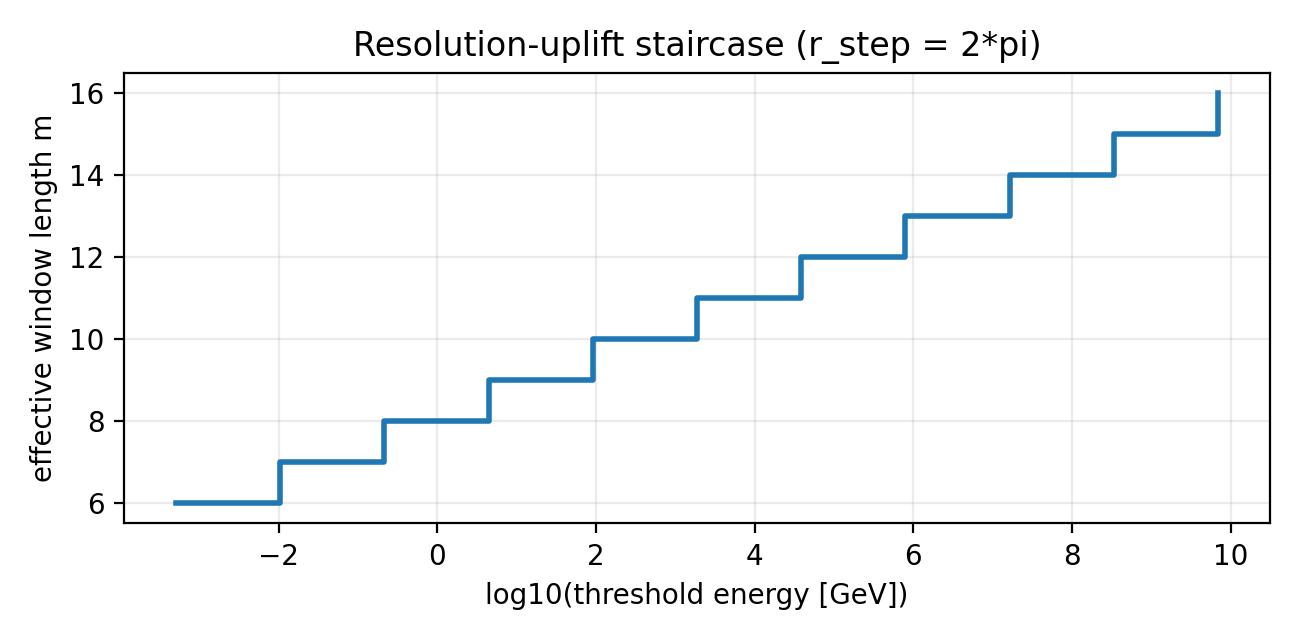
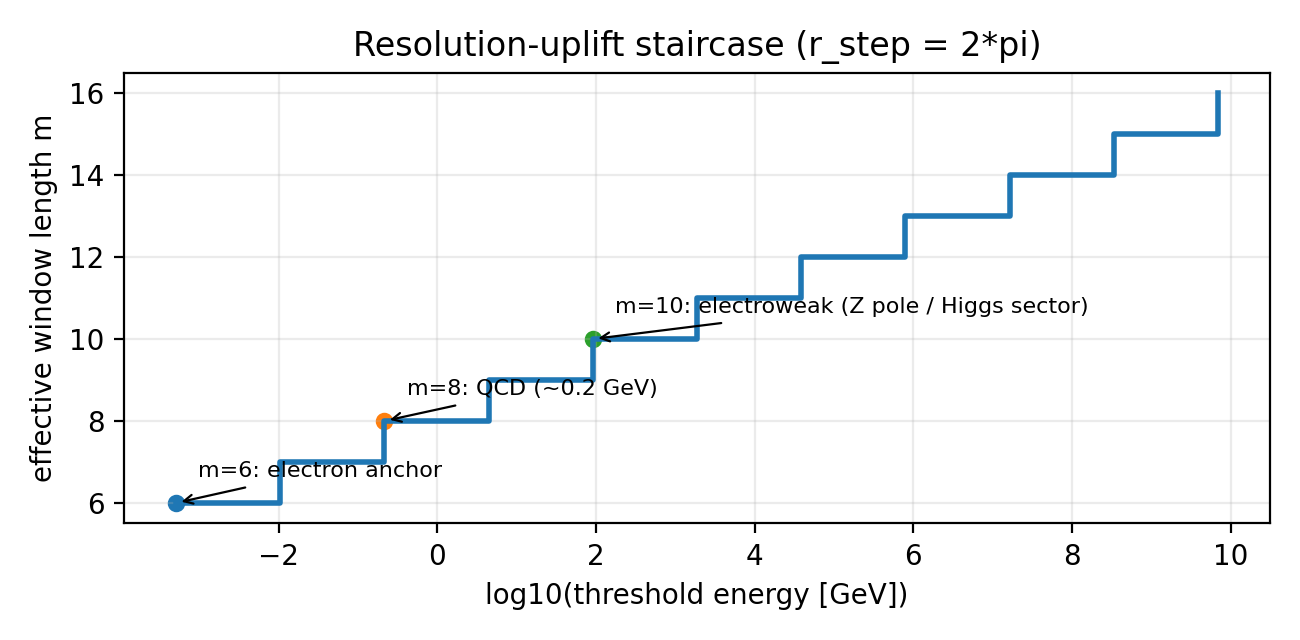
Revise title and enhance documentation for clarity in the HPA framework
- Updated the title of the main document to emphasize the derivation of 4D spacetime and the Standard Model from a 1D Hilbert Curve.
- Expanded sections to clarify the relationship between the 6-DoF geometry and the physical identification layer.
- Added new figures and annotations in the LaTeX documentation to illustrate key concepts, including the 6-DoF lock and its implications for the minimal balanced coupling.
- Enhanced discussions on scalar sectors, emphasizing the emergent nature of scalar modes and their relation to the Higgs sector.
- Improved overall coherence and readability of the document, ensuring that theoretical frameworks are clearly presented and accessible.

Changed region(s): [[0.4308, 0.4688, 0.8308, 0.5312], [0.2769, 0.5938, 0.5231, 0.6875], [0.1231, 0.7188, 0.3385, 0.8125]]

diff --git a/docs/papers/2025_z128_standard_model_stable_sector_hpa_omega/sections/05_standard_model_interface.tex b/docs/papers/2025_z128_standard_model_stable_sector_hpa_omega/sections/05_standard_model_interface.tex
@@ -129,13 +129,20 @@ Construct a map from the stable type set $X_6$ (together with its $\pi$-split an
 \end{itemize}
 \end{problem}
 
-\subsection{Scalar sectors and symmetry breaking (interface)}
+\subsection{Prediction: scalar exclusion and the emergent Higgs (interface)}
 \label{subsec:scalar_sectors_interface}
 
-The minimal $21$-type interface at $(m,n)=(6,3)$ is optimized for a chiral/gauge closure: $18$ cyclic labels for chiral fermion multiplets and $3$ boundary labels for gauge-factor classes (Section~\ref{sec:sm_labeling_closure}).
-However, a renormalizable Standard Model EFT also includes a scalar Higgs doublet whose vacuum structure controls electroweak symmetry breaking.
-In this paper, the Higgs is therefore treated as an additional EFT field (Section~\ref{subsec:protocol_eft}) and is not asserted to correspond to a distinct stable type at the minimal window length (Remark~\ref{rem:higgs_not_in_21}).
-This raises a natural interface problem: how should scalar degrees of freedom and symmetry breaking be represented in protocol language?
+At the minimal balanced coupling instance $(m,n)=(6,3)$, the $21$-type interface is optimized for a chiral/gauge closure:
+$18$ cyclic labels for chiral fermion multiplets and $3$ boundary labels for gauge-factor classes (Section~\ref{sec:sm_labeling_closure}).
+In this setting we record an interface prediction:
+parity-even scalar degrees of freedom are \emph{excluded} as distinct minimal stable types, and scalar effective modes should arise only as coarse-grained and uplift-dependent observables.
+The motivation is that the minimal stable-sector closure is tied to directional protocol data (scan order and the chirality sign datum) and to compensation transport, whereas a scalar mode is, by definition, an observable whose effective appearance is insensitive to these orientation-sign choices.
+
+In particular, a renormalizable Standard Model EFT includes a scalar Higgs doublet whose vacuum structure controls electroweak symmetry breaking.
+In the present protocol language, the Higgs is therefore treated as an EFT-level completion (Section~\ref{subsec:protocol_eft}) rather than as an additional minimal stable type at $m=6$ (Remark~\ref{rem:higgs_not_in_21}).
+The resolution-uplift narrative provides a concrete locus for scalar emergence:
+in the admissible-set sweep one has $|X_{10}|=144=123\oplus 21$ (Table~\ref{tab:xm_sweep}), and under the minimal staircase calibration the threshold for $m=10$ lies near the electroweak scale (Section~\ref{subsec:p3_resolution_jumps}, Table~\ref{tab:resolution_thresholds}).
+This suggests that electroweak-scalar behavior is naturally modeled as an emergent, parity-even background supported by higher-resolution texture, not as a primitive type at the minimal window.
 
 \begin{problem}[Scalar sectors and electroweak symmetry breaking (interface)]
 \label{prob:scalar_sector}
@@ -156,7 +163,7 @@ Block averaging as a coarse-graining operation is standard in lattice models; se
 \begin{remark}[A minimal protocol route to scalar effective modes]\label{rem:scalar_emergent_route}
 By construction, coarse-grained observables of Definition~\ref{def:coarse_grained_scalar} are parity-even in the protocol sense: under $P_{\mathrm{prot}}$ they transform by pullback of the spatial reflection on the grid rather than by an intrinsic sign flip.
 They are likewise insensitive to the traversal-direction sign datum used to define the discrete chirality index $\chi$.
-This provides a concrete protocol interpretation for why scalar sectors may be more naturally modeled as composite or protocol-emergent modes whose effective appearance depends on coarse graining and resolution uplift, consistent with the Higgs-sector status recorded in Remark~\ref{rem:higgs_not_in_21}.
+This provides a concrete protocol interpretation for a scalar exclusion at the minimal stable alphabet: parity-even scalar modes are naturally modeled as composite or protocol-emergent observables whose appearance depends on coarse graining and resolution uplift, consistent with the Higgs-sector status recorded in Remark~\ref{rem:higgs_not_in_21}.
 \end{remark}
 
 \paragraph{A minimal finite check.}

diff --git a/docs/papers/2025_z128_standard_model_stable_sector_hpa_omega/sections/09_conclusion.tex b/docs/papers/2025_z128_standard_model_stable_sector_hpa_omega/sections/09_conclusion.tex
@@ -4,6 +4,7 @@
 
 We proposed a readout-stability reformulation of Standard Model structure within the HPA scan--projection paradigm.
 At the minimal balanced coupling scale $(m,n)=(6,3)$, the provable folding core compresses $64$ microstates to $21$ stable types with a canonical $18\oplus 3$ cyclic/boundary split.
+On the physical identification layer, the 6-DoF lock in a $3$D locality dictionary motivates the six-bit anchor window and therefore the minimal balanced pair (Section~\ref{subsec:6dof_lock}).
 On the physical identification layer, we recorded interface hypotheses: gauge fields as defect-compensating connections; chirality as protocol selection among Hilbert $D_4$ layout families; antimatter as conjugate readout under scan reversal.
 We provided auditable scripts and generated tables that reproduce the finite folding statistics and the discrete chirality-index sign laws, and we stated falsifiable predictions formulated directly in the protocol language.
 In addition, we closed two interface components at $(m,n)=(6,3)$: a unique field-level labeling of the $21$ stable types, and a closed mass-spectrum depth formula with a bounded-complexity rigidity signal.
@@ -12,12 +13,14 @@ In addition, we closed two interface components at $(m,n)=(6,3)$: a unique field
 \begin{itemize}
 \item \textbf{Mathematical layer.}
 At minimal balanced resolution, three commuting stability channels yield a rigid $64\to 21$ folding and a canonical $18\oplus 3$ cyclic/boundary split, with explicit Fold$_6$ tables and a rigid degeneracy histogram.
+\item \textbf{6-DoF lock (interface anchor).}
+In a $3$D locality dictionary, a local rigid frame carries six degrees of freedom; a minimal bit-per-DoF hypothesis motivates the six-bit anchor window and therefore the minimal balanced pair $(m,n)=(6,3)$ (Section~\ref{subsec:6dof_lock}).
 \item \textbf{Protocol geometry.}
 Hilbert addressing admits two orientation classes; fixing one at initialization turns parity into protocol change.
 The discrete chirality index $\chi$ flips under both reflection and traversal reversal, coupling spatial handedness and time direction at finite resolution.
-\item \textbf{Scalar sectors (status).}
-At $(m,n)=(6,3)$ the Higgs sector is treated as an EFT-level completion rather than as a distinct minimal stable type (Remark~\ref{rem:higgs_not_in_21}).
-We recorded an explicit scalar-sector interface problem (Problem~\ref{prob:scalar_sector}) and a minimal finite parity contrast between $\chi$ and block-averaged intrinsic observables (Table~\ref{tab:scalar_coarse_grain}).
+\item \textbf{Scalar sectors (prediction).}
+At the minimal stable alphabet, parity-even scalar modes are predicted to be protocol-emergent rather than distinct stable types: they arise from coarse graining and resolution uplift, consistent with treating the Higgs sector as an EFT-level completion at $m=6$ (Section~\ref{subsec:scalar_sectors_interface}, Remark~\ref{rem:higgs_not_in_21}).
+We recorded a constructive scalar-sector interface problem (Problem~\ref{prob:scalar_sector}) and a minimal finite parity contrast between $\chi$ and block-averaged intrinsic observables (Table~\ref{tab:scalar_coarse_grain}), and we tied uplift thresholds to the electroweak scale in the staircase template (Section~\ref{subsec:p3_resolution_jumps}).
 \item \textbf{Physical interface.}
 Gauge fields are interpreted as compensation connections required for cross-site readout consistency; antimatter arises as the conjugate readout induced by scan reversal; CP violation is compatible with a residual holonomy/volume mechanism tied to a CP-odd phase space.
 \item \textbf{Closed deliverables.}

diff --git a/docs/papers/2025_z128_standard_model_stable_sector_hpa_omega/sections/01_introduction.tex b/docs/papers/2025_z128_standard_model_stable_sector_hpa_omega/sections/01_introduction.tex
@@ -44,6 +44,50 @@ From this viewpoint, discreteness is not a postulate but a consequence of finite
 The stable-sector viewpoint used in this paper has a natural control-theoretic dual: in open systems, long-lived low-entropy structure can be modeled as \emph{predictive active error correction} (AEC) that suppresses protocol-level mismatch relative to a passive baseline while paying dissipation and implementation costs \cite{Ma2025BioTeleology}.
 Appendix~\ref{app:isomorphism_dictionary} records a protocol-level dictionary that aligns stable-sector objects (alphabets, stability channels, degeneracies) with AEC objects (mismatch certificates, feedback, and audit constraints) without mixing mathematical-layer premises with physical identification claims.
 
+\subsection{Interface principle: the 6-DoF lock in a 3D locality dictionary}
+\label{subsec:6dof_lock}
+While Axiom~0 fixes only sequentiality, any physical identification must choose a locality dictionary.
+Empirically, the observed locality structure is three-dimensional to high precision on laboratory and astrophysical scales.
+In a $3$D locality dictionary, a local rigid frame is naturally modeled by the Euclidean group
+\[
+SE(3)\cong \RR^3\rtimes SO(3),
+\]
+specified by a position $x\in\RR^3$ and an orientation $R\in SO(3)$.
+Hence the minimal kinematic description carries six independent parameters: three translational plus three rotational degrees of freedom.
+
+We adopt a minimal interface hypothesis: a fundamental readout window supplies one bit per kinematic degree of freedom of a local frame.
+This motivates a six-bit anchor window $\Omega_6=\{0,1\}^6$.
+This statement belongs to the physical identification layer: it motivates a preferred anchor scale but is not used as a premise for any theorem-level folding statement.
+
+Once a locality-preserving addressing basis is fixed (e.g.\ Hilbert addressing), the balanced coupling rule $m=2n$ matches the $m$-bit readout alphabet size $2^m$ with the number of sites $4^n$ at Hilbert order $n$ (Lemma~\ref{lem:balanced_coupling_equiv}).
+The 6-DoF lock selects $m=6$, hence $n=3$ and $2^6=4^3=64$, giving the smallest nontrivial anchor at which local readout cardinality and spatial addressing cardinality coincide.
+
+\begin{figure}[t]
+\centering
+\begin{tikzpicture}[>=Latex, font=\footnotesize]
+  % Left: 3D frame (schematic)
+  \coordinate (O) at (0,0);
+  \draw[->, thick] (O) -- (1.3,0) node[below] {$x$};
+  \draw[->, thick] (O) -- (0,1.2) node[left] {$y$};
+  \draw[->, thick] (O) -- (-0.85,-0.85) node[below] {$z$};
+  \draw[thick] (O) circle (0.45);
+  \draw[->, thick] (0.45,0) arc (0:-300:0.45);
+  \node[align=center] at (0,-1.05) {3 translations\\ + 3 rotations};
+
+  % Arrow: bit-per-DoF lock
+  \draw[->, thick] (1.55,0) -- (2.85,0) node[midway, above] {1 bit / DoF};
+
+  % Right: 6-bit slots
+  \foreach \i/\lab in {0/1,1/2,2/3,3/4,4/5,5/6} {
+    \draw[thick] (3+0.55*\i,-0.30) rectangle (3+0.55*\i+0.45,0.30);
+    \node at (3+0.55*\i+0.225,0) {$b_{\lab}$};
+  }
+  \node[align=center] at (4.35,-1.05) {$m=6$ bits\\$\Omega_6=\{0,1\}^6$};
+\end{tikzpicture}
+\caption{The 6-DoF lock (interface language): in a $3$D locality dictionary, a local rigid frame has six degrees of freedom (three positional plus three orientational). A minimal bit-per-DoF hypothesis motivates a six-bit anchor window.}
+\label{fig:6dof_lock}
+\end{figure}
+
 \subsection{Methodological note: auditable layering}
 \label{subsec:audit_layering}
 

diff --git a/docs/papers/2025_z128_standard_model_stable_sector_hpa_omega/sections/00_frontmatter.tex b/docs/papers/2025_z128_standard_model_stable_sector_hpa_omega/sections/00_frontmatter.tex
@@ -5,7 +5,8 @@ Time is not imposed as an external parameter; it is realized operationally as th
 In this paper, the conversion from this dimensionless scan rate to a physical velocity scale (e.g.\ the measured constant $c$) is treated only as a matching-layer and units dictionary, not as a theorem-level output of the folding core.
 
 Within this framework we reformulate the Standard Model (SM) as a problem of \emph{stable readout sectors} under finite resolution.
-At the minimal balanced coupling scale $(m,n)=(6,3)$, the local readout space is the $6$-bit microstate set $\Omega_6:=\{0,1\}^6$ with $|\Omega_6|=64$.
+On the physical identification layer, we motivate a minimal window length by a $6$-DoF phase-space lock in a $3$D locality dictionary (three positional plus three orientational degrees of freedom), leading to a $6$-bit fundamental readout window.
+At the minimal balanced coupling instance $(m,n)=(6,3)$, the local readout space is the $6$-bit microstate set $\Omega_6:=\{0,1\}^6$ with $|\Omega_6|=64$.
 Introducing three commuting stability channels, denoted $\varphi$--$\pi$--$\e$, and defining stability by their joint readout constraints, we obtain a rigid \emph{resolution folding} $64\to 21$: the $\varphi$-stable type set $X_6$ has cardinality $|X_6|=21$ and admits a canonical $18\oplus 3$ split into cyclic and boundary types induced by the $\pi$-channel.
 
 We then propose a \emph{scan--chirality locking} principle: the orientation class of Hilbert addressing (a choice among the dihedral layout families $D_4$) fixed at $t=0$ turns parity into a protocol change at the readout level.
@@ -36,6 +37,7 @@ The standard Abel path refers to the limit process $r\uparrow 1$ with $r\in(0,1)
 \paragraph{Dimensional language.}
 Throughout the paper we use conventional terms such as ``space'', ``spacetime'', ``grid'', and ``dimension'' only as shorthand for protocol-level addressing and locality structure induced by the chosen readout basis (e.g.\ Hilbert addressing at fixed order).
 No ontic assumption of a pre-existing continuum manifold or a privileged physical dimension is used as a premise for the theorem-level folding statements.
+References to ``4D spacetime'' and to the $6$-DoF phase-space lock are likewise interface language: time refers to scan iteration count, while the spatial dictionary refers to the chosen locality basis; these identification statements are not used as premises for the folding core.
 
 \paragraph{Layered audit rule.}
 We separate a \emph{mathematical layer} (definitions and provable finite-resolution statements) from a \emph{physical identification layer} (interfaces and falsifiable mapping hypotheses).

diff --git a/docs/papers/2025_z128_standard_model_stable_sector_hpa_omega/sections/07b_mass_spectrum_closure.tex b/docs/papers/2025_z128_standard_model_stable_sector_hpa_omega/sections/07b_mass_spectrum_closure.tex
@@ -29,6 +29,10 @@ The interpretation is that folding degeneracy counts extra protocol effort (addi
 Under Axiom~0 (Section~\ref{subsec:axiom0_linearity}), the primitive description is a one-dimensional scan order.
 In this interface language, depth shifts and degeneracy penalties are naturally read as \emph{additional local scan length} required to implement and stabilize a readout pattern at a fixed finite resolution.
 Equivalently, larger effective depth corresponds to increased local scan density and longer protocol dwell time, which is precisely the operational content of inertia and mass in a scan-based identification dictionary.
+This can be read as an oversampling/compression effect:
+the 6-DoF lock motivates an $m=6$ anchor window for a $3$D locality dictionary (Section~\ref{subsec:6dof_lock}), while a resolution uplift to larger $m$ (e.g.\ to $m=10$ near the electroweak threshold in Section~\ref{subsec:p3_resolution_jumps}) attempts to resolve higher-bit texture in the same locality budget.
+Heuristically, excess information that cannot be unfolded spatially is absorbed as additional structure along the linear scan (``knotting'' of the readout stream), increasing the required scan length and therefore the effective inertia.
+In this sense, \emph{mass is the latency of processing high-resolution data on low-resolution hardware}.
 The quantitative content of this interpretation in the present paper is the auditable closed template \eqref{eq:mass_template} together with the bounded-complexity rigidity signal for its integer coefficients (Proposition~\ref{prop:rhat_rigidity}).
 \end{remark}
 

diff --git a/docs/papers/2025_z128_standard_model_stable_sector_hpa_omega/sections/08b_limitations_related_work.tex b/docs/papers/2025_z128_standard_model_stable_sector_hpa_omega/sections/08b_limitations_related_work.tex
@@ -20,6 +20,9 @@ the local readout alphabet size $|\Omega_m|=2^m$ and the number of sites on the 
 The choice $(m,n)=(6,3)$ is then the smallest nontrivial instance of this match:
 $2^6=4^3=64$.
 This choice is an \emph{anchor scale} for an auditable finite model, not a claim that the dynamics must select $m=6$.
+On the physical identification layer, we also record a candidate selection principle for this anchor:
+in a $3$D locality dictionary, a minimal bit-per-DoF hypothesis for a local rigid frame motivates an $m=6$ window (the 6-DoF lock; Section~\ref{subsec:6dof_lock}).
+This does not promote $m=6$ to a theorem-level necessity; it provides a low-complexity interface constraint whose compatibility with uplift and coarse-graining behavior can be audited and falsified.
 We partially control parameter sensitivity by recording $m$-sweeps and balanced refinement chains (Appendix~\ref{app:generated_tables} and Section~\ref{sec:protocol_connections_holonomy}), which show that several structural counts (Fibonacci admissible sizes, cyclic/boundary split) persist across $m$.
 A dynamical mechanism that selects an effective window length as a function of energy or environment remains an open problem within the program.
 At the purely mathematical level, the persistence statements are theorem-level: $|X_m|=F_{m+2}$ and $|X_m^{\mathrm{bdry}}|=F_{m-2}$ for all $m$ (Lemma~\ref{lem:xm_fib} and Proposition~\ref{prop:cyc_bdry_size}), and the truncation map $\mathrm{Fold}_m$ is surjective onto $X_m$ for all $m\ge 1$ (Proposition~\ref{prop:foldm_surjective}).

diff --git a/docs/papers/2025_z128_standard_model_stable_sector_hpa_omega/scripts/exp_resolution_thresholds.py b/docs/papers/2025_z128_standard_model_stable_sector_hpa_omega/scripts/exp_resolution_thresholds.py
@@ -86,6 +86,30 @@ def try_plot(thresholds: List[Tuple[int, float, float]]) -> None:
     ax.set_title("Resolution-uplift staircase (r_step = 2*pi)")
     ax.grid(True, alpha=0.25)
 
+    # Key physical anchors (labels are narrative only; values are from the same calibration).
+    x_of_m: dict[int, float] = {m: math.log10(mu) for m, _r, mu in thresholds}
+    anchors = [
+        (6, "m=6: electron anchor"),
+        (8, "m=8: QCD (~0.2 GeV)"),
+        (10, "m=10: electroweak (Z pole / Higgs sector)"),
+    ]
+    for m, label in anchors:
+        if m not in x_of_m:
+            continue
+        x = x_of_m[m]
+        y = float(m)
+        ax.scatter([x], [y], s=28)
+        ax.annotate(
+            label,
+            xy=(x, y),
+            xytext=(8, 8),
+            textcoords="offset points",
+            fontsize=8,
+            ha="left",
+            va="bottom",
+            arrowprops={"arrowstyle": "->", "linewidth": 0.8},
+        )
+
     root = Path(__file__).resolve().parent.parent
     fig_dir = root / "figures"
     fig_dir.mkdir(parents=True, exist_ok=True)

diff --git a/docs/papers/2025_z128_standard_model_stable_sector_hpa_omega/main.tex b/docs/papers/2025_z128_standard_model_stable_sector_hpa_omega/main.tex
@@ -68,7 +68,7 @@
 % Code listings (fvextra / fancyvrb)
 \fvset{breaklines=true,breakanywhere=true,fontsize=\small}
 
-\title{The Linear Universe: Standard Model and Spacetime from a Single Scan Order\\
+\title{The Linear Universe: Deriving 4D Spacetime and the Standard Model from the 6-DoF Geometry of a 1D Hilbert Curve\\
 \texorpdfstring{$\ZZ_{128}$}{Z128} Scanning Readout, \texorpdfstring{$\varphi$--$\pi$--$\e$}{phi--pi--e} Resolution Folding, Hilbert-Chiral Addressing, and Antimatter Duality}
 \author{Haobo Ma (Auric)\thanks{Email: auric@aelf.io} \\
 \textit{AELF PTE LTD.} \\
